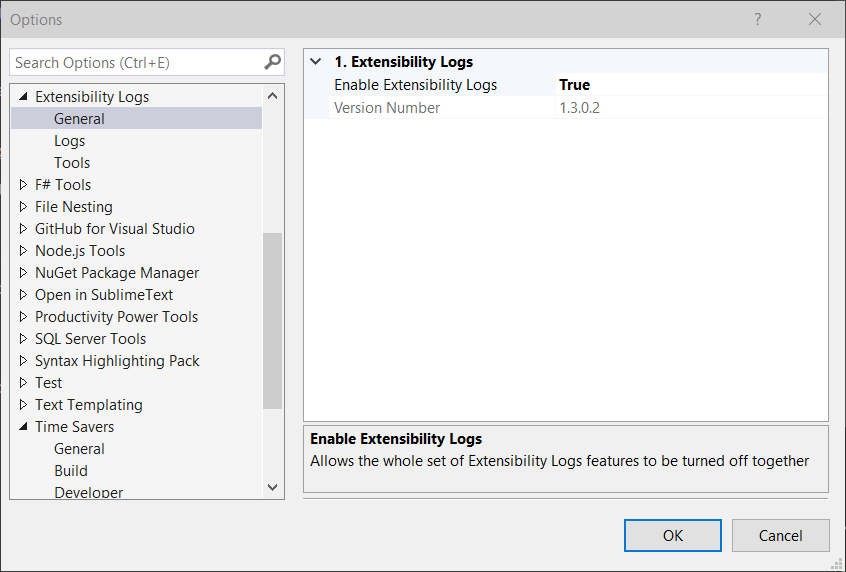
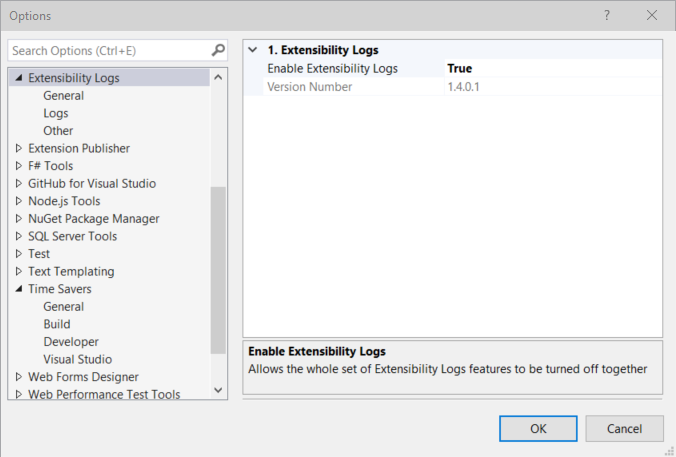
docs(website): generate documentation pages

diff --git a/docs/features/index.html b/docs/features/index.html
@@ -285,8 +285,8 @@
 </li>
       
         <li class="md-nav__item">
-  <a href="#tools" title="Tools" class="md-nav__link">
-    Tools
+  <a href="#other" title="Other" class="md-nav__link">
+    Other
   </a>
   
     <nav class="md-nav">
@@ -362,6 +362,13 @@
       <ul class="md-nav__list">
         
           <li class="md-nav__item">
+  <a href="#enable-logs-features" title="Enable Logs Features" class="md-nav__link">
+    Enable Logs Features
+  </a>
+  
+</li>
+        
+          <li class="md-nav__item">
   <a href="#enable-activity-log" title="Enable Activity Log" class="md-nav__link">
     Enable Activity Log
   </a>
@@ -409,12 +416,19 @@
 </li>
         
           <li class="md-nav__item">
-  <a href="#tools-options" title="Tools Options" class="md-nav__link">
-    Tools Options
+  <a href="#other-options" title="Other Options" class="md-nav__link">
+    Other Options
   </a>
   
     <nav class="md-nav">
       <ul class="md-nav__list">
+        
+          <li class="md-nav__item">
+  <a href="#enable-other-features" title="Enable Other Features" class="md-nav__link">
+    Enable Other Features
+  </a>
+  
+</li>
         
           <li class="md-nav__item">
   <a href="#enable-environment-variables" title="Enable Environment Variables" class="md-nav__link">
@@ -568,8 +582,8 @@
 </li>
       
         <li class="md-nav__item">
-  <a href="#tools" title="Tools" class="md-nav__link">
-    Tools
+  <a href="#other" title="Other" class="md-nav__link">
+    Other
   </a>
   
     <nav class="md-nav">
@@ -645,6 +659,13 @@
       <ul class="md-nav__list">
         
           <li class="md-nav__item">
+  <a href="#enable-logs-features" title="Enable Logs Features" class="md-nav__link">
+    Enable Logs Features
+  </a>
+  
+</li>
+        
+          <li class="md-nav__item">
   <a href="#enable-activity-log" title="Enable Activity Log" class="md-nav__link">
     Enable Activity Log
   </a>
@@ -692,12 +713,19 @@
 </li>
         
           <li class="md-nav__item">
-  <a href="#tools-options" title="Tools Options" class="md-nav__link">
-    Tools Options
+  <a href="#other-options" title="Other Options" class="md-nav__link">
+    Other Options
   </a>
   
     <nav class="md-nav">
       <ul class="md-nav__list">
+        
+          <li class="md-nav__item">
+  <a href="#enable-other-features" title="Enable Other Features" class="md-nav__link">
+    Enable Other Features
+  </a>
+  
+</li>
         
           <li class="md-nav__item">
   <a href="#enable-environment-variables" title="Enable Environment Variables" class="md-nav__link">
@@ -790,7 +818,8 @@ and then open it in your editor of choice.</p>
 <li><strong>Files:</strong> VsixServiceDiscovery-*.log</li>
 </ul>
 <h3 id="visual-studio-setup-log">Visual Studio Setup Log<a class="headerlink" href="#visual-studio-setup-log" title="Permanent link">&para;</a></h3>
-<p>Opens the latest <em>Visual Studio Setup Log</em> in a tab in Visual Studio, scrambling to find it,
+<p>Opens the latest <em>Visual Studio Setup Log</em> in a tab in Visual Studio,
+without scrambling to find it,
 and then open it in your editor of choice.</p>
 <ul>
 <li><strong>Folder:</strong> %TEMP%</li>
@@ -804,22 +833,22 @@ and then open it in your editor of choice.</p>
 <li><strong>Folder:</strong> %TEMP%</li>
 <li><strong>Files:</strong> dd_VSIXInstaller_*.log</li>
 </ul>
-<h2 id="tools">Tools<a class="headerlink" href="#tools" title="Permanent link">&para;</a></h2>
+<h2 id="other">Other<a class="headerlink" href="#other" title="Permanent link">&para;</a></h2>
 <h3 id="environment-variables">Environment Variables<a class="headerlink" href="#environment-variables" title="Permanent link">&para;</a></h3>
 <p>Displays the <em>environment variables</em> for the current process in a tab in Visual Studio,
 without having to open a command prompt and issue a SET command.</p>
 <h3 id="path-variables">Path Variables<a class="headerlink" href="#path-variables" title="Permanent link">&para;</a></h3>
 <p>Displays Windows' current <em>search paths for executable files</em> in a tab in Visual Studio,
-without having to open a command prompt.</p>
+without having to open a command prompt and issue a PATH command.</p>
 <h3 id="visual-studio-folder">Visual Studio Folder<a class="headerlink" href="#visual-studio-folder" title="Permanent link">&para;</a></h3>
 <p>Opens the <em>current Visual Studio instance's folder</em> in a <em>File Explorer</em> window,
 without having to first remember the location of the folder,
-and then open it in a File Explorer window.</p>
+and then open it in an external File Explorer window.</p>
 <ul>
 <li><strong>Folder:</strong> %LOCALAPPDATA%\Microsoft\VisualStudio\instance_id\</li>
 </ul>
 <h2 id="options">Options<a class="headerlink" href="#options" title="Permanent link">&para;</a></h2>
-<p>Any logs/tools that have been disabled will still appear on the toolbar, but will be inactive,
+<p>Any commands that have been disabled will still appear on the toolbar, but will be inactive,
 but they won't appear in the menu.
 The toolbar buttons can be hidden by removing them from the <em>Extensibility Logs</em> toolbar.</p>
 <h3 id="general-options">General Options<a class="headerlink" href="#general-options" title="Permanent link">&para;</a></h3>
@@ -830,6 +859,8 @@ The toolbar buttons can be hidden by removing them from the <em>Extensibility Lo
 <p>Displays then version number of <em>Extensibility Logs</em> that's currently installed.</p>
 <h3 id="logs-options">Logs Options<a class="headerlink" href="#logs-options" title="Permanent link">&para;</a></h3>
 <p><img alt="Options" src="../assets/images/logs-options.png" /></p>
+<h4 id="enable-logs-features">Enable Logs Features<a class="headerlink" href="#enable-logs-features" title="Permanent link">&para;</a></h4>
+<p>This setting allows the whole set of <em>Logs</em> features to be turned off together.</p>
 <h4 id="enable-activity-log">Enable Activity Log<a class="headerlink" href="#enable-activity-log" title="Permanent link">&para;</a></h4>
 <p>The <em>Activity Log</em> feature can be disabled by setting <em>Tools | Options | Extensibility Logs |  Enable Activity Log</em>
 to <code>false</code>.</p>
@@ -848,8 +879,10 @@ to <code>false</code>.</p>
 <h4 id="enable-vsix-installer-log">Enable VSIX Installer Log<a class="headerlink" href="#enable-vsix-installer-log" title="Permanent link">&para;</a></h4>
 <p>The <em>VSIX Installer Log</em> feature can be disabled by setting <em>Tools | Options | Extensibility Logs | Enable VSIX Installer Log</em>
 to <code>false</code>.</p>
-<h3 id="tools-options">Tools Options<a class="headerlink" href="#tools-options" title="Permanent link">&para;</a></h3>
-<p><img alt="Options" src="../assets/images/tools-options.png" /></p>
+<h3 id="other-options">Other Options<a class="headerlink" href="#other-options" title="Permanent link">&para;</a></h3>
+<p><img alt="Options" src="../assets/images/other-options.png" /></p>
+<h4 id="enable-other-features">Enable Other Features<a class="headerlink" href="#enable-other-features" title="Permanent link">&para;</a></h4>
+<p>This setting allows the whole set of <em>Other</em> features to be turned off together.</p>
 <h4 id="enable-environment-variables">Enable Environment Variables<a class="headerlink" href="#enable-environment-variables" title="Permanent link">&para;</a></h4>
 <p>The <em>Environment Variables</em> feature can be disabled by setting <em>Tools | Options | Extensibility Logs | Enable Environment Variables</em>
 to <code>false</code>.</p>

diff --git a/docs/changelog/index.html b/docs/changelog/index.html
@@ -236,8 +236,8 @@
       <ul class="md-nav__list">
         
           <li class="md-nav__item">
-  <a href="#v15-2019-04-" title="v1.5 - 2019-04-??" class="md-nav__link">
-    v1.5 - 2019-04-??
+  <a href="#v15-2019-04-16" title="v1.5 - 2019-04-16" class="md-nav__link">
+    v1.5 - 2019-04-16
   </a>
   
 </li>
@@ -385,8 +385,8 @@
       <ul class="md-nav__list">
         
           <li class="md-nav__item">
-  <a href="#v15-2019-04-" title="v1.5 - 2019-04-??" class="md-nav__link">
-    v1.5 - 2019-04-??
+  <a href="#v15-2019-04-16" title="v1.5 - 2019-04-16" class="md-nav__link">
+    v1.5 - 2019-04-16
   </a>
   
 </li>
@@ -504,9 +504,10 @@
                   <h1>Changelog</h1>
                 
                 <h2 id="public-releases">Public Releases<a class="headerlink" href="#public-releases" title="Permanent link">&para;</a></h2>
-<h3 id="v15-2019-04-">v1.5 - 2019-04-??<a class="headerlink" href="#v15-2019-04-" title="Permanent link">&para;</a></h3>
+<h3 id="v15-2019-04-16">v1.5 - 2019-04-16<a class="headerlink" href="#v15-2019-04-16" title="Permanent link">&para;</a></h3>
 <ul>
 <li>added 'Visual Studio Setup Log'</li>
+<li>renamed 'Tools' to 'Other'</li>
 </ul>
 <h3 id="v14-2019-04-13">v1.4 - 2019-04-13<a class="headerlink" href="#v14-2019-04-13" title="Permanent link">&para;</a></h3>
 <ul>
